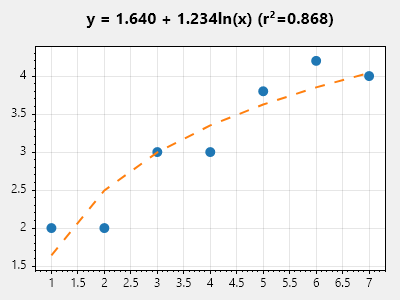
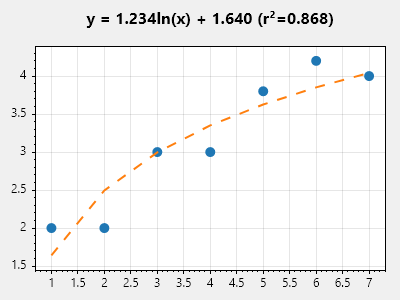
FAQ: fix Excel-like curve fitting plots cookbook (#44)

Changed region(s): [[0.3, 0.03, 0.63, 0.09]]

diff --git a/content/faq/curve-fitting.md b/content/faq/curve-fitting.md
@@ -76,12 +76,12 @@ sp.LineWidth = 0;
 sp.MarkerSize = 10;
 
 // calculate the regression line
-(double a, double r) = MathNet.Numerics.Fit.Linear(xs, ys);
+(double a, double b) = MathNet.Numerics.Fit.Line(xs, ys);
 
 // curve fitting equation
 double f(double x)
 {
-    return a * Math.Exp(r * x);
+    return a + b * x;
 }
 
 double[] fx = xs.Select(f).ToArray();
@@ -94,7 +94,7 @@ line.LinePattern = LinePattern.Dashed;
 
 // note the formula at the top of the plot
 double r2 = MathNet.Numerics.GoodnessOfFit.RSquared(ys, fx);
-string formulaWithRSquared = $"y = {a:F3}e^{r:F3}x (r²={r2:F3})";
+string formulaWithRSquared = $"y = {b:F3}x + {a:F3} (r²={r2:F3})";
 myPlot.Title(formulaWithRSquared);
 
 myPlot.SavePng("demo.png", 400, 300);
@@ -124,12 +124,12 @@ sp.LineWidth = 0;
 sp.MarkerSize = 10;
 
 // calculate the regression line
-(double a, double r) = MathNet.Numerics.Fit.Logarithmic(xs, ys);
+(double a, double b) = MathNet.Numerics.Fit.Logarithm(xs, ys);
 
 // curve fitting equation
 double f(double x)
 {
-    return a * Math.Exp(r * x);
+    return a + b * Math.Log(x);
 }
 
 double[] fx = xs.Select(f).ToArray();
@@ -142,7 +142,7 @@ line.LinePattern = LinePattern.Dashed;
 
 // note the formula at the top of the plot
 double r2 = MathNet.Numerics.GoodnessOfFit.RSquared(ys, fx);
-string formulaWithRSquared = $"y = {a:F3}e^{r:F3}x (r²={r2:F3})";
+string formulaWithRSquared = $"y = {b:F3}ln(x) + {a:F3} (r²={r2:F3})";
 myPlot.Title(formulaWithRSquared);
 
 myPlot.SavePng("demo.png", 400, 300);
